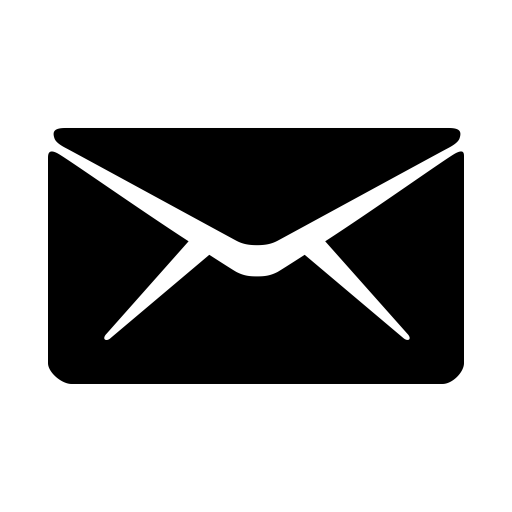
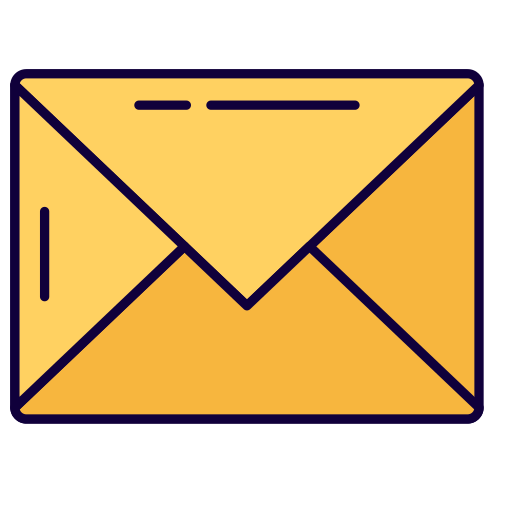
Изменил иконку в окне техподдержка

diff --git a/MNS/TechnicalAssistanceWindow.xaml b/MNS/TechnicalAssistanceWindow.xaml
@@ -18,8 +18,8 @@
                 </StackPanel>
                 <StackPanel VerticalAlignment="Center">
                     <StackPanel Orientation="Horizontal" VerticalAlignment="Center" HorizontalAlignment="Left">
-                        <Image Source="Icon_email.png" Width="48" Margin="4"/>
-                        <TextBlock VerticalAlignment="Center" FontSize="14" FontWeight="Bold" Margin="16">
+                        <Image Source="Icon_email.png" Width="41" Margin="8"/>
+                        <TextBlock VerticalAlignment="Center" FontSize="14" FontWeight="Bold" Margin="16" >
                             metrology@protonmail.com
                         </TextBlock>
                     </StackPanel>
